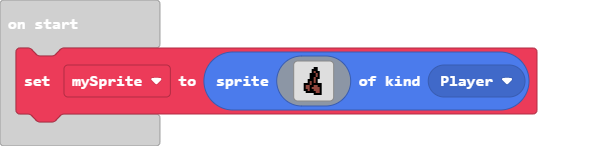
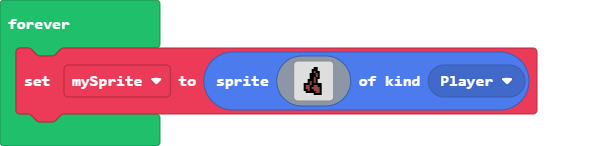
Update main.blocks, main.ts

Changed region(s): [[0.0, 0.0, 0.275, 1.0]]

diff --git a/main.ts b/main.ts
@@ -1,18 +1,21 @@
-let mySprite = sprites.create(img`
-    . . . . . . . . . . . . . . . . 
-    . . . . . . . . f f . . . . . . 
-    . . . . . . . f f f . . . . . . 
-    . . . . . . . f e f f . . . . . 
-    . . . . . . f f f e f . . . . . 
-    . . . . . . f f f e f . . . . . 
-    . . . . . . f f e f f . . . . . 
-    . . . . . f f f e f . . . . . . 
-    . . . . . f e f e f . . . . . . 
-    . . . f f f e f f f f f . . . . 
-    . . . f e e f f e e f f . . . . 
-    . . . f e e f e e e e f . . . . 
-    . . . f f e f f e e e f . . . . 
-    . . . . f f f f f e e f . . . . 
-    . . . . . . . . f f f f . . . . 
-    . . . . . . . . . . . . . . . . 
-    `, SpriteKind.Player)
+let mySprite: Sprite = null
+forever(function () {
+    mySprite = sprites.create(img`
+        . . . . . . . . . . . . . . . . 
+        . . . . . . . . f f . . . . . . 
+        . . . . . . . f f f . . . . . . 
+        . . . . . . . f e f f . . . . . 
+        . . . . . . f f f e f . . . . . 
+        . . . . . . f f f e f . . . . . 
+        . . . . . . f f e f f . . . . . 
+        . . . . . f f f e f . . . . . . 
+        . . . . . f e f e f . . . . . . 
+        . . . f f f e f f f f f . . . . 
+        . . . f e e f f e e f f . . . . 
+        . . . f e e f e e e e f . . . . 
+        . . . f f e f f e e e f . . . . 
+        . . . . f f f f f e e f . . . . 
+        . . . . . . . . f f f f . . . . 
+        . . . . . . . . . . . . . . . . 
+        `, SpriteKind.Player)
+})
